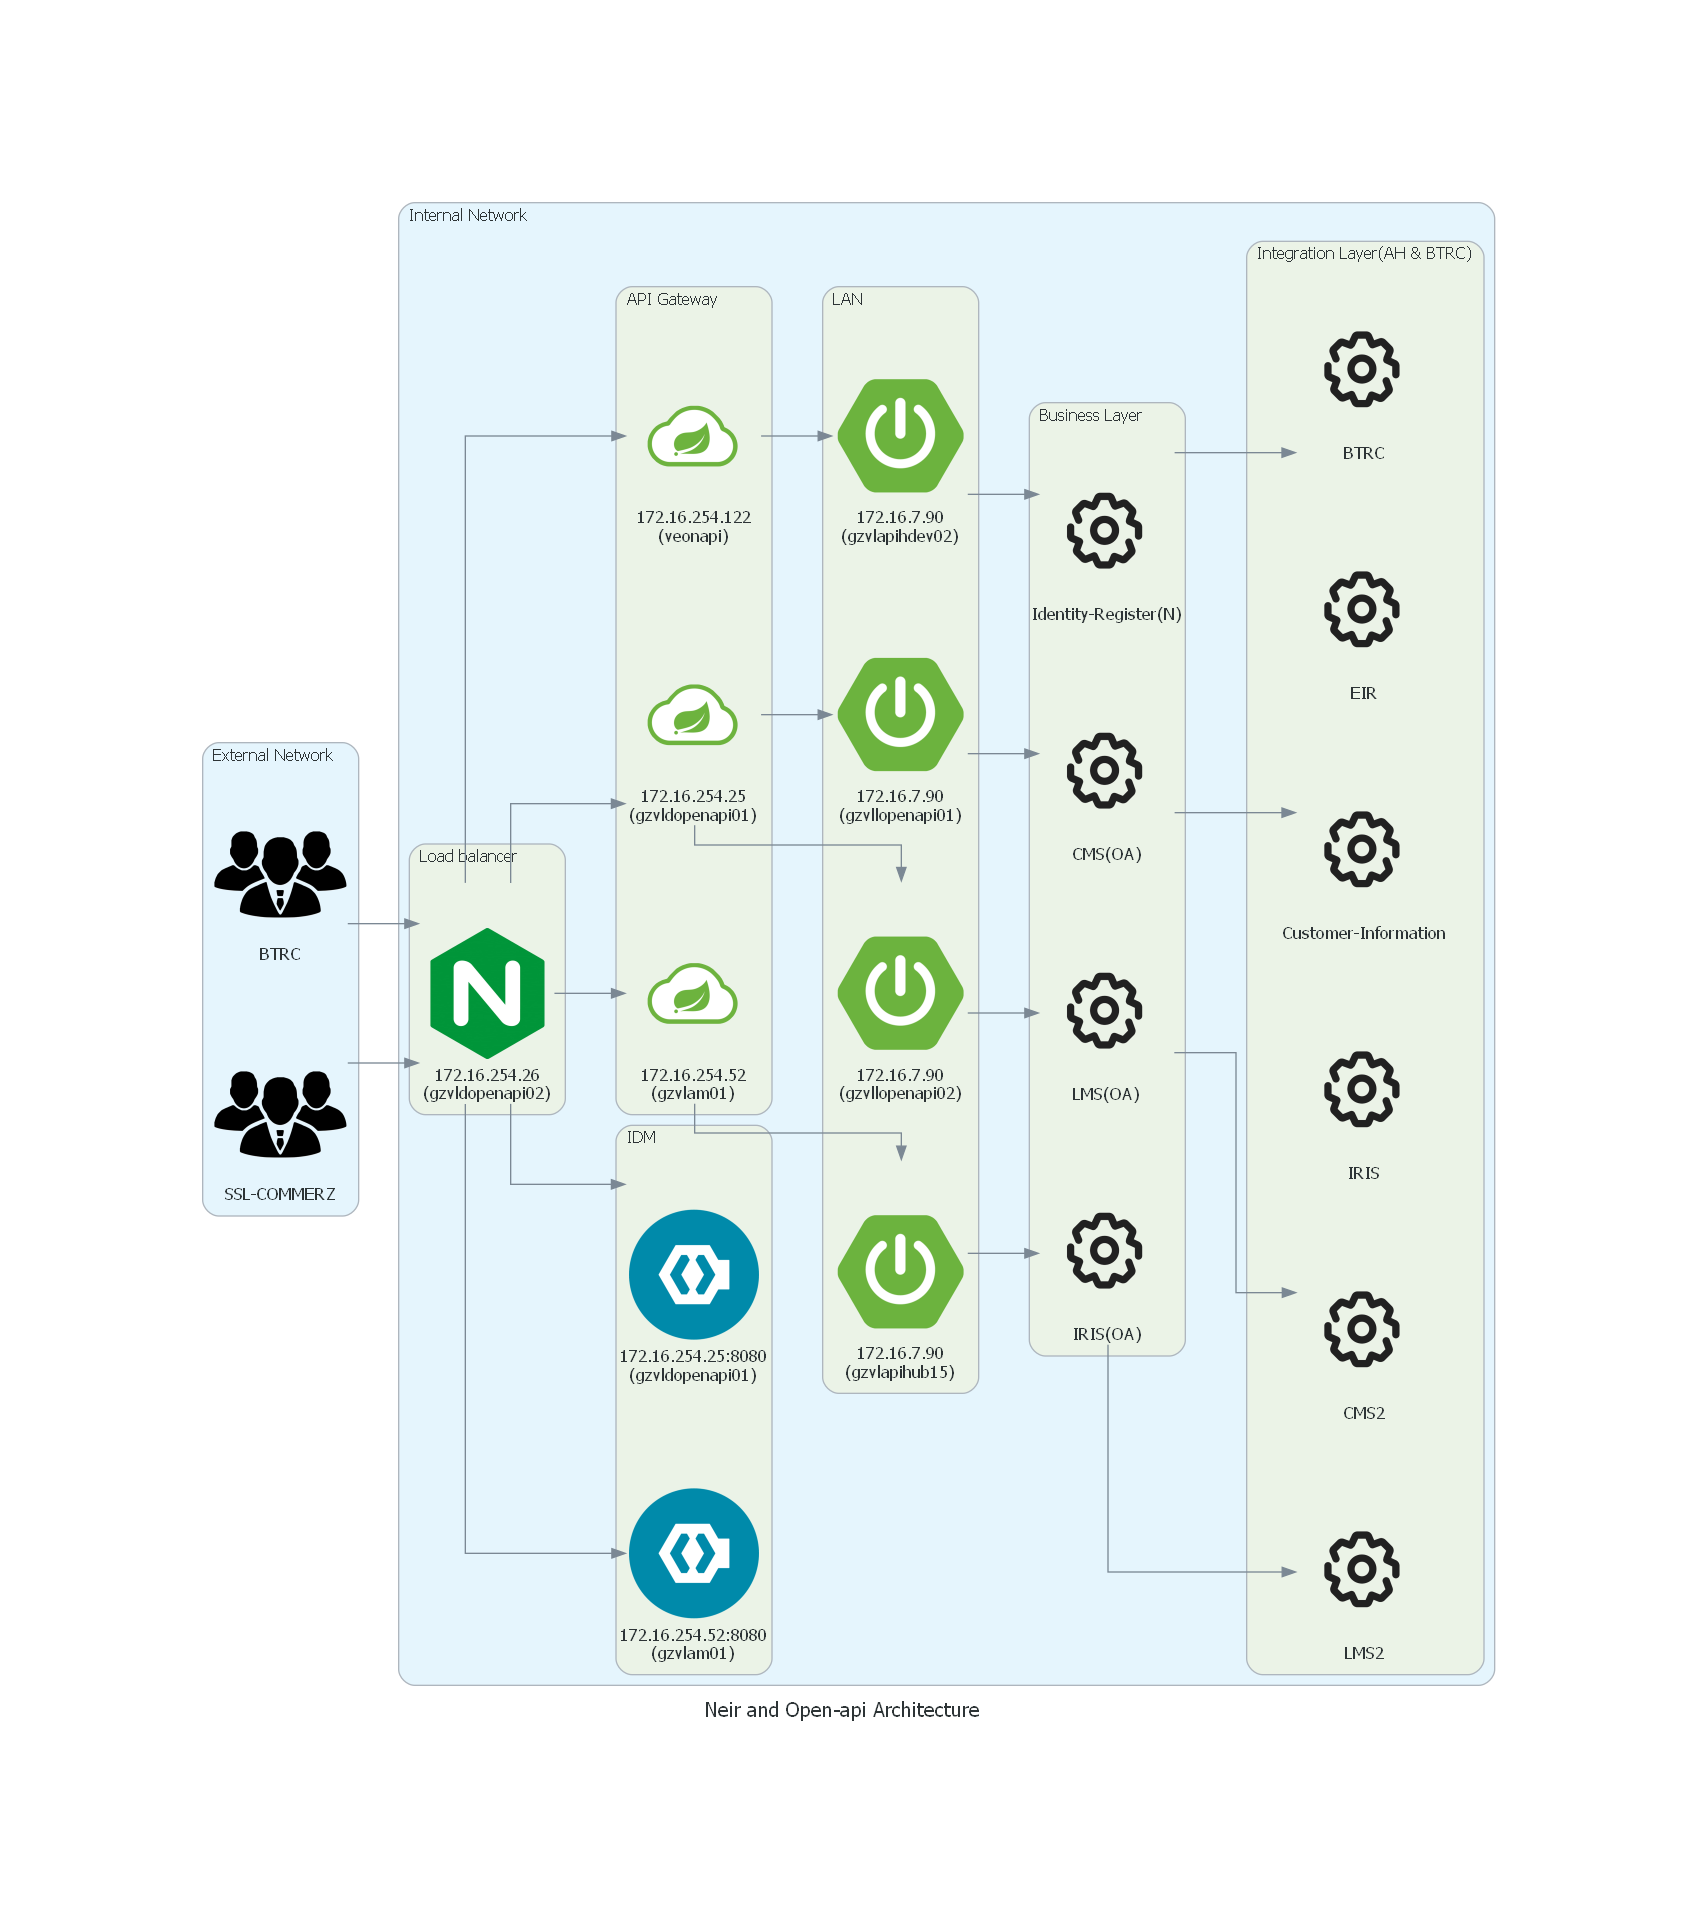
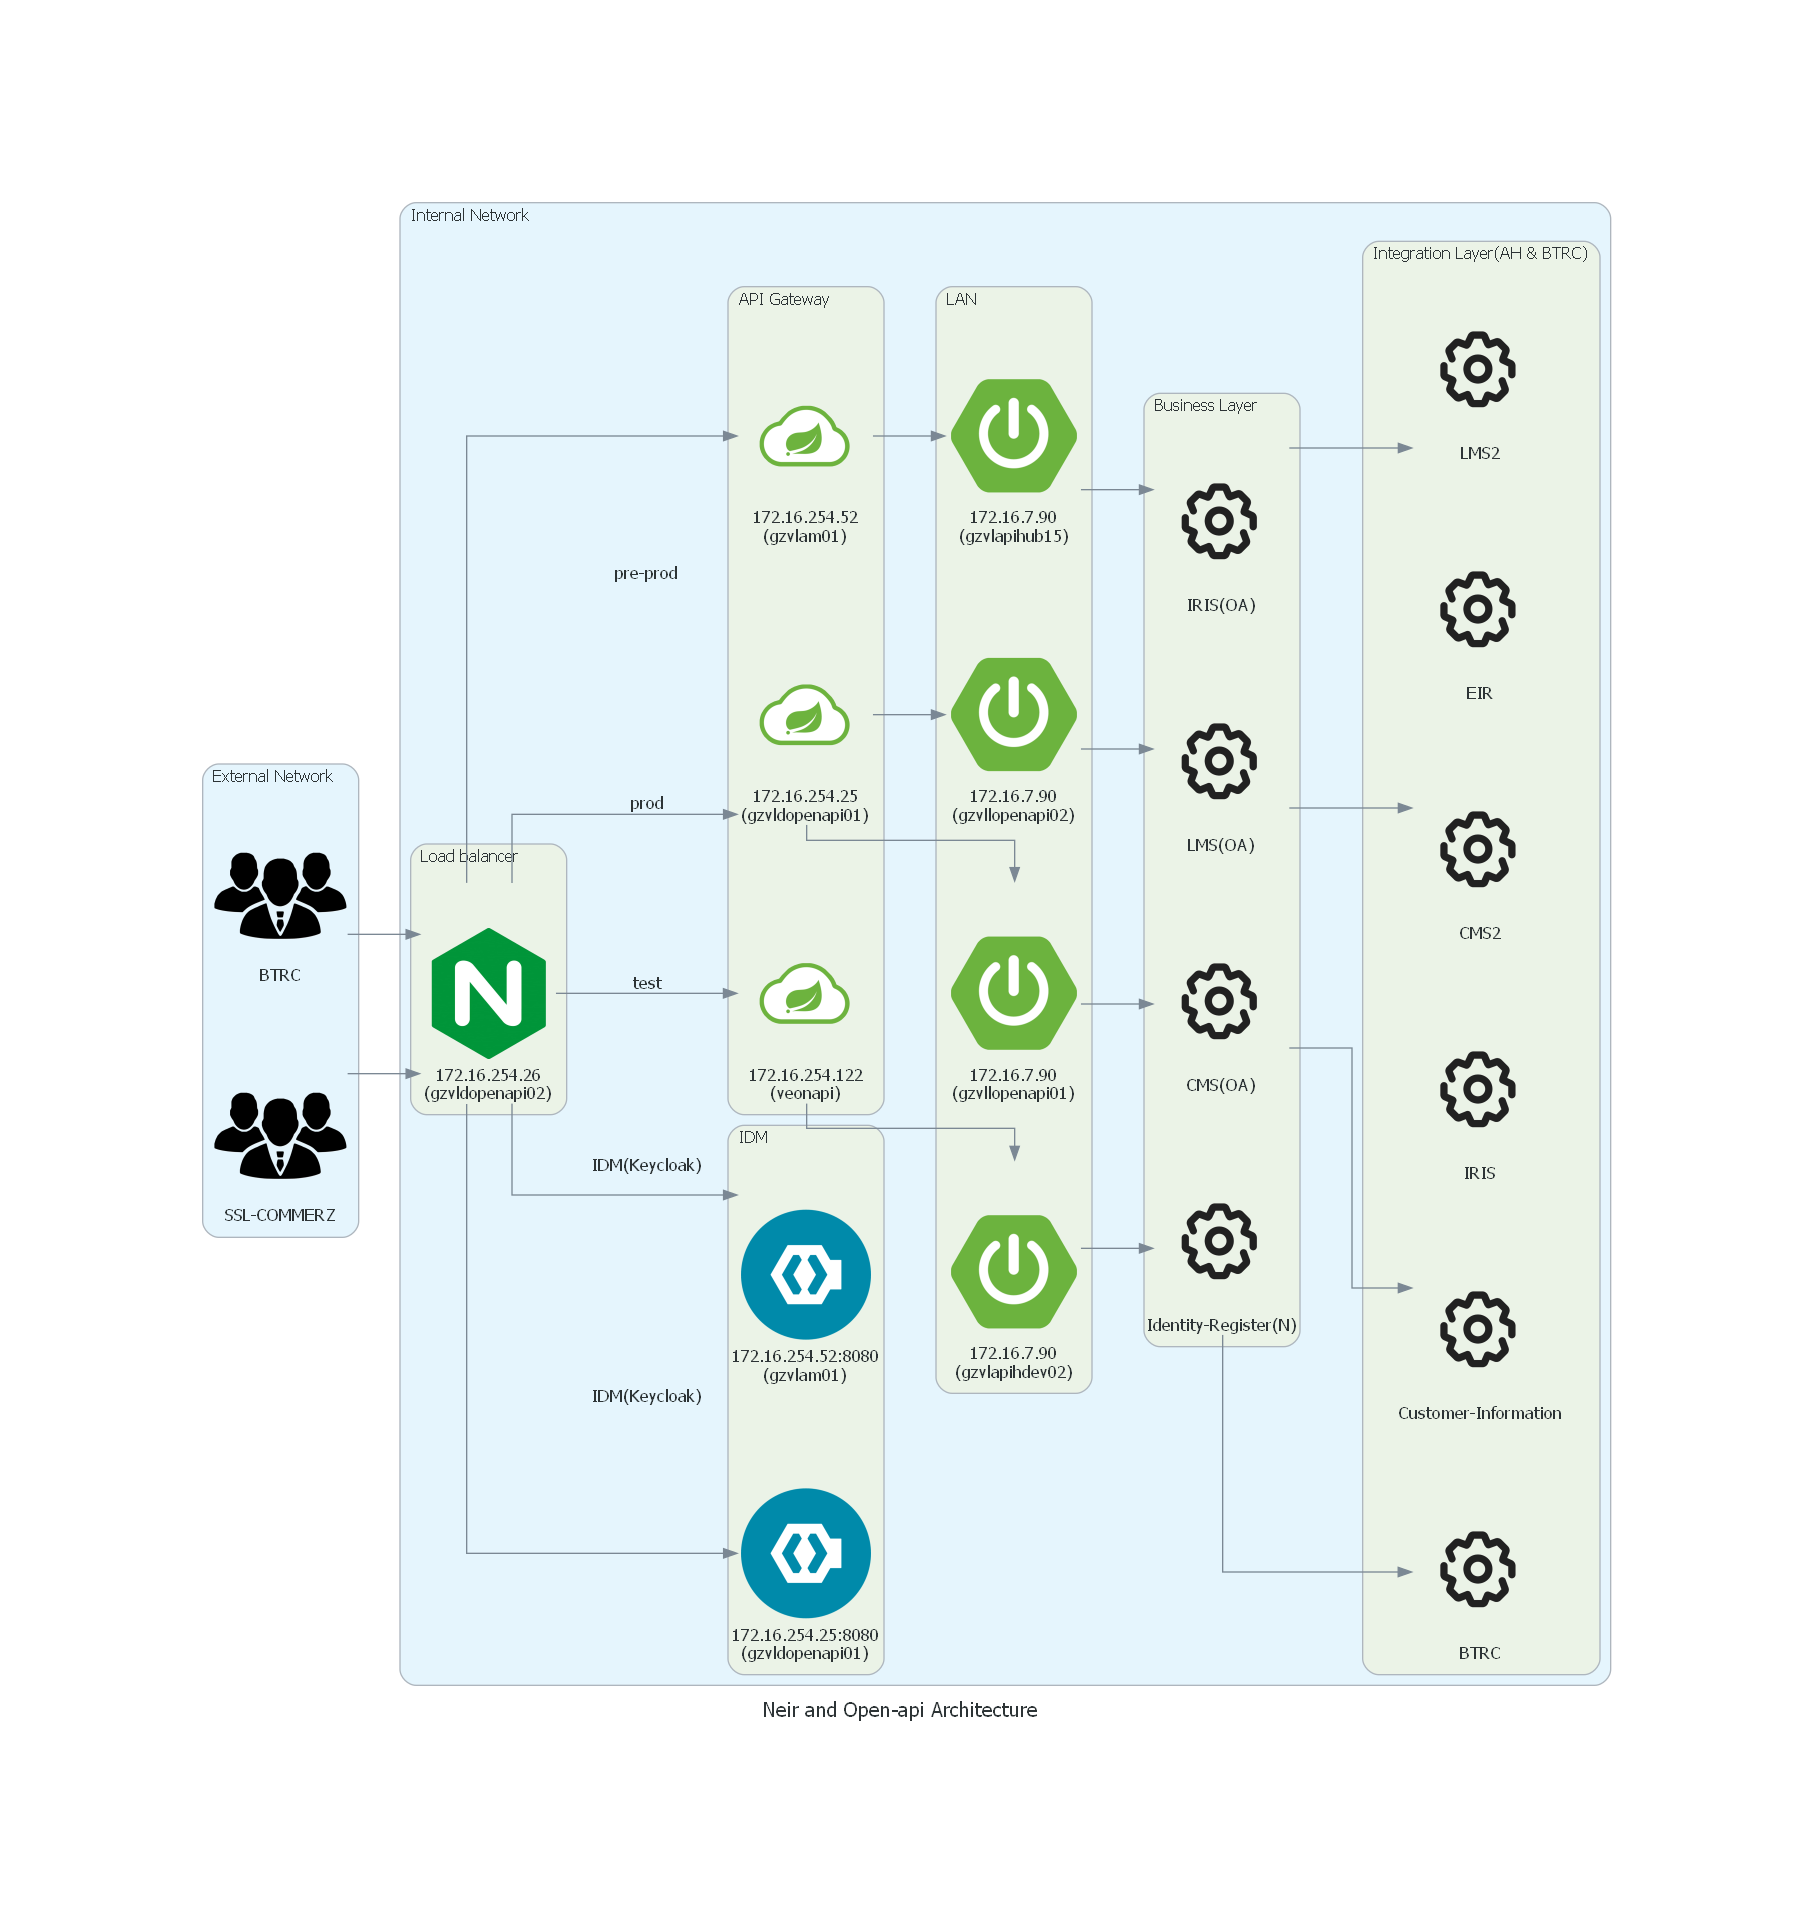
update 28

diff --git a/FinalDiagram.py b/FinalDiagram.py
@@ -64,10 +64,10 @@ with Diagram("Neir and Open-api Architecture", show=True):
 
                 
 
-    ex_clnt >> lb >> idm
-    lb >> apiG >> lan1
-    lb >> apiG1
-    lb >> apiG2 >> lan4
+    ex_clnt >> lb >>Edge(label="IDM(Keycloak)")>> idm
+    lb >> Edge(label="test")>> apiG >> lan1
+    lb >> Edge(label="prod")>> apiG1
+    lb >> Edge(label="pre-prod")>> apiG2 >> lan4
     apiG1 >> lan2
     apiG1 >> lan3
     lan1 >> bl1
